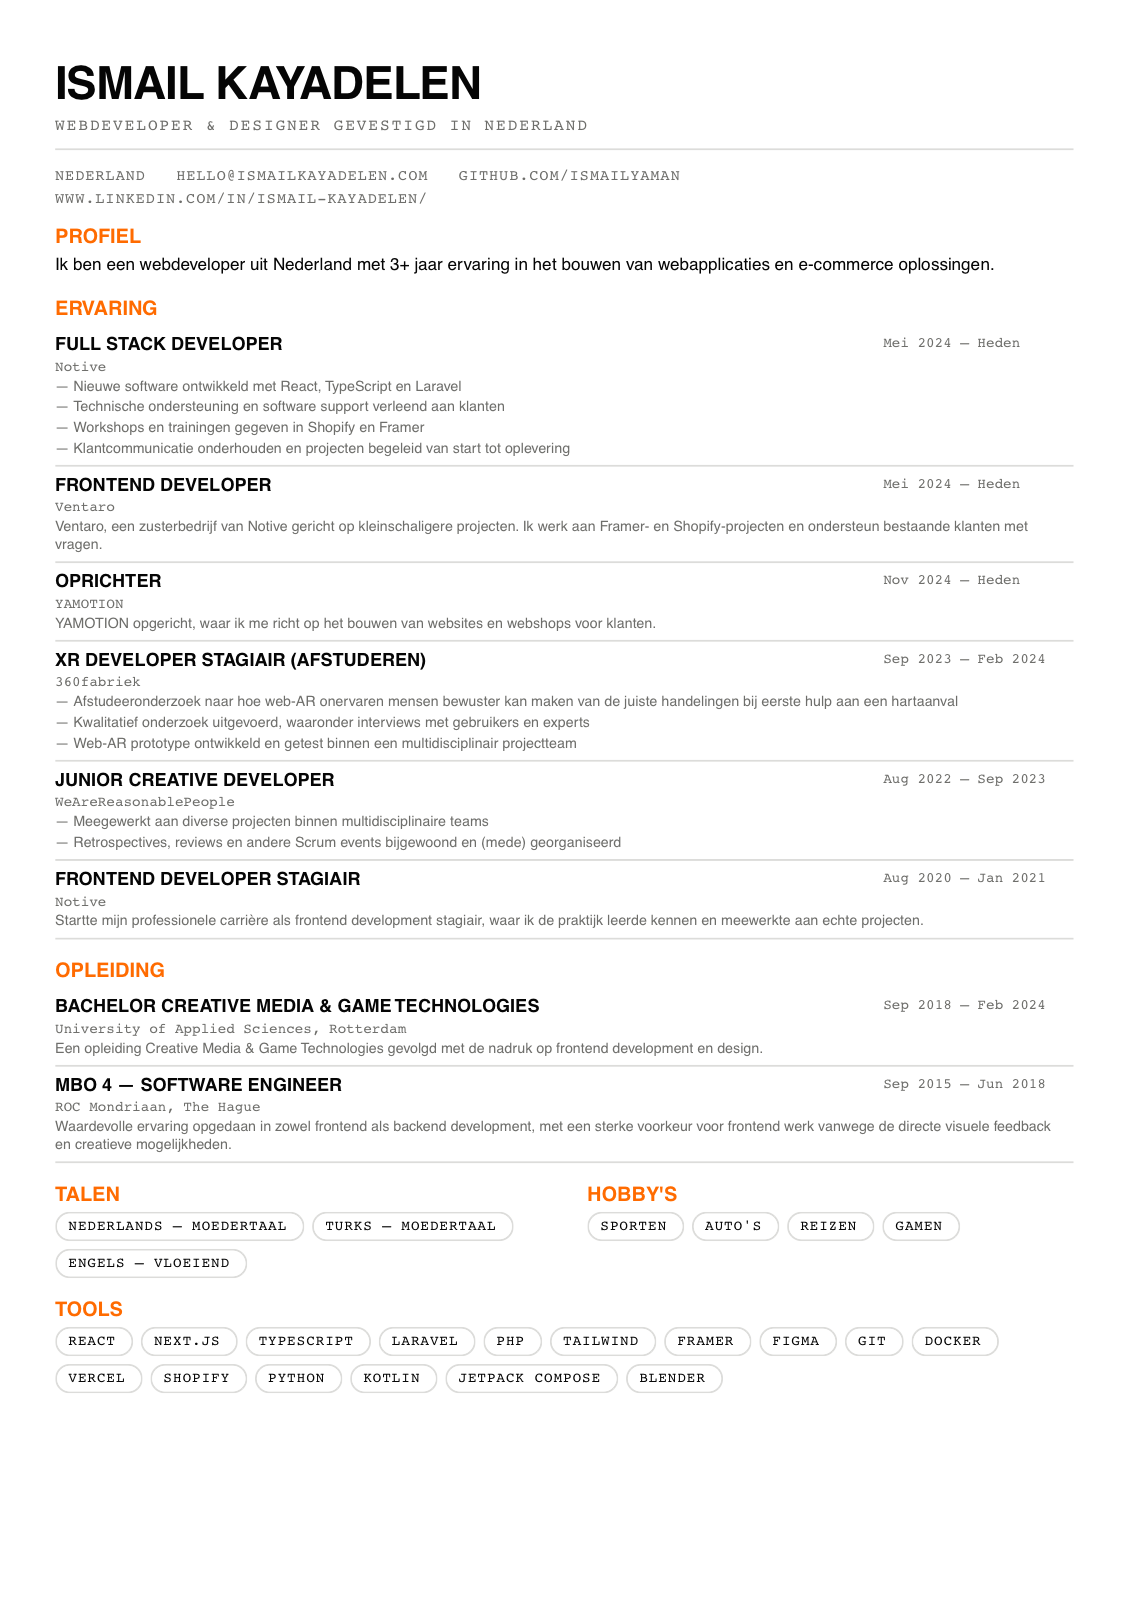
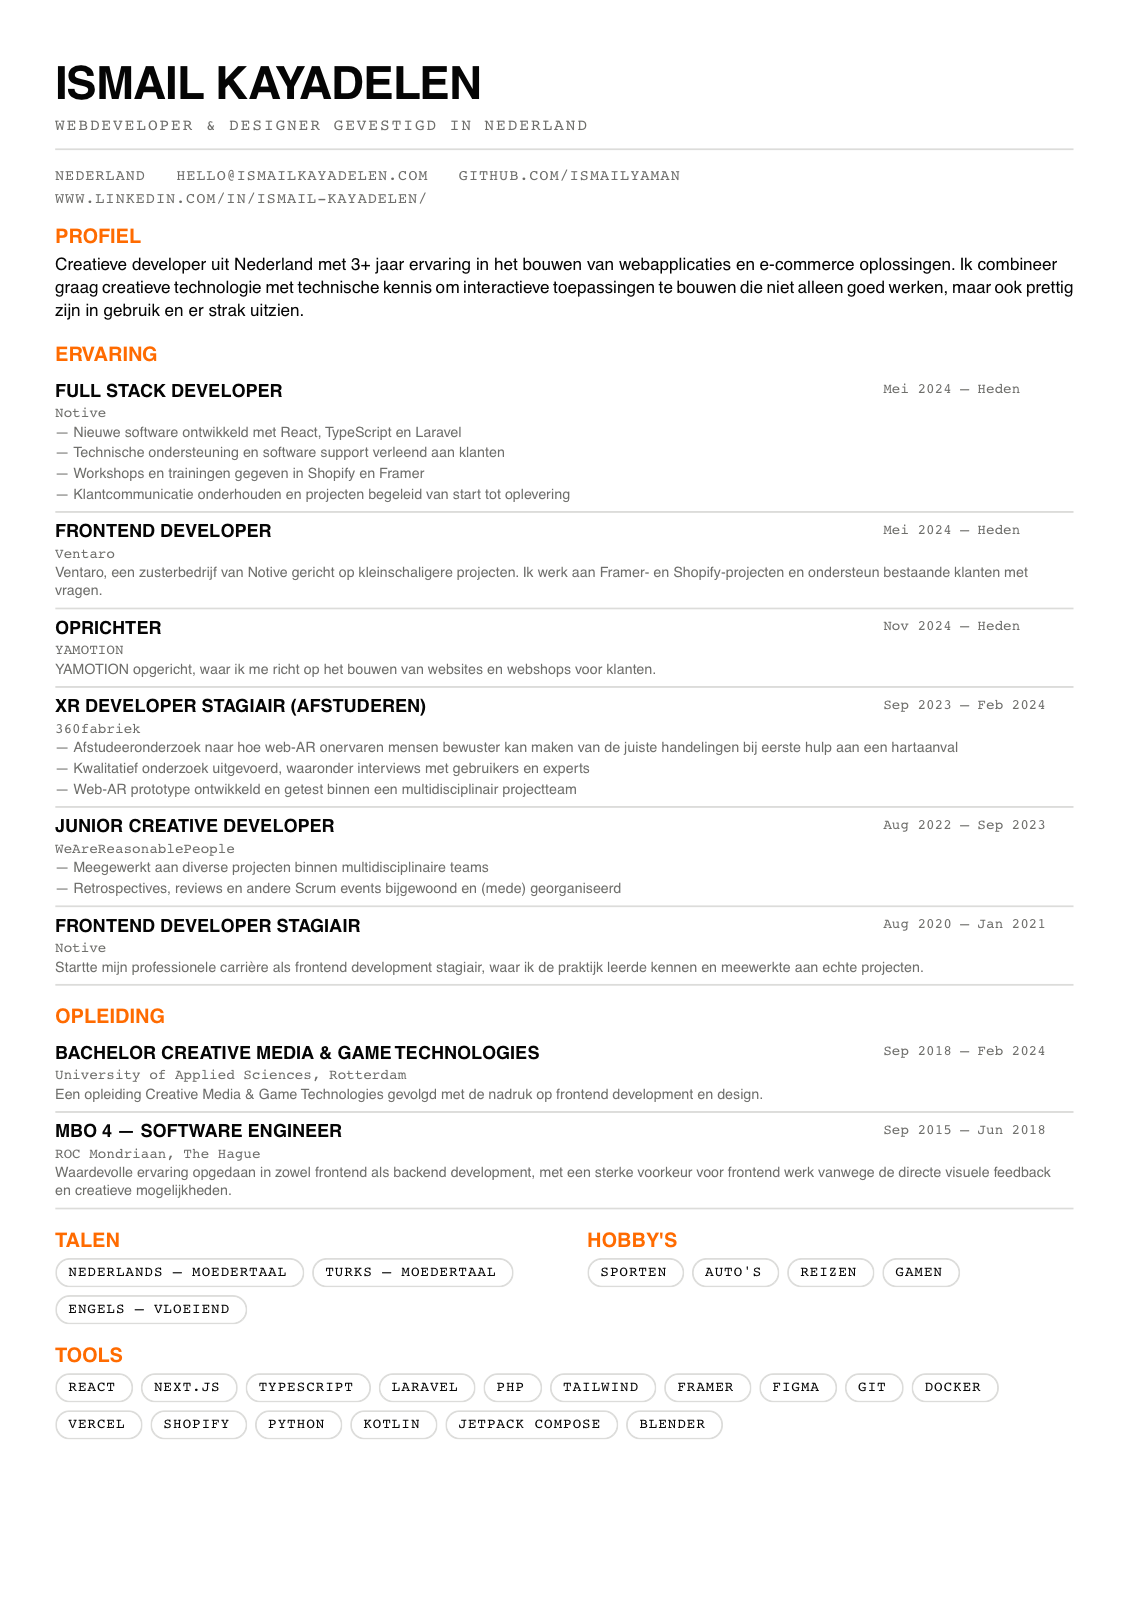
Rewrite CV profile summary with a creative-developer framing
Adds a dedicated cvProfile field (separate from the About page's
bio.lead) so the CV's Profile section can carry a fuller pitch without
affecting the About page's hero text.

diff --git a/lib/data.ts b/lib/data.ts
@@ -23,6 +23,11 @@ export const bio = {
   } satisfies L,
 };
 
+export const cvProfile = {
+  en: "Creative developer based in the Netherlands with 3+ years of experience building web apps and e-com solutions. I like combining creative technology with technical know-how to build interactive products that not only work well, but are also pleasant to use and look sharp.",
+  nl: "Creatieve developer uit Nederland met 3+ jaar ervaring in het bouwen van webapplicaties en e-commerce oplossingen. Ik combineer graag creatieve technologie met technische kennis om interactieve toepassingen te bouwen die niet alleen goed werken, maar ook prettig zijn in gebruik en er strak uitzien.",
+} satisfies L;
+
 export const socials = [
   { label: "GitHub", href: "https://github.com/IsmailYaman" },
   { label: "LinkedIn", href: "https://www.linkedin.com/in/ismail-kayadelen/" },

diff --git a/scripts/generate-cv.tsx b/scripts/generate-cv.tsx
@@ -6,7 +6,7 @@
  * Run with: npm run generate:cv
  */
 import { renderToFile, Document, Page, Text, View, StyleSheet } from "@react-pdf/renderer";
-import { SITE, bio, workExperience, education, tools, socials, languages, hobbies, type ExperienceEntry } from "../lib/data";
+import { SITE, cvProfile, workExperience, education, tools, socials, languages, hobbies, type ExperienceEntry } from "../lib/data";
 import type { Locale } from "../lib/locale";
 
 const INK = "#050505";
@@ -160,7 +160,7 @@ function CvDocument({ locale }: { locale: Locale }) {
 
         <View style={styles.section}>
           <Text style={styles.sectionTitle}>{l.profile}</Text>
-          <Text style={styles.paragraph}>{bio.lead[locale]}</Text>
+          <Text style={styles.paragraph}>{cvProfile[locale]}</Text>
         </View>
 
         <View style={styles.section}>
